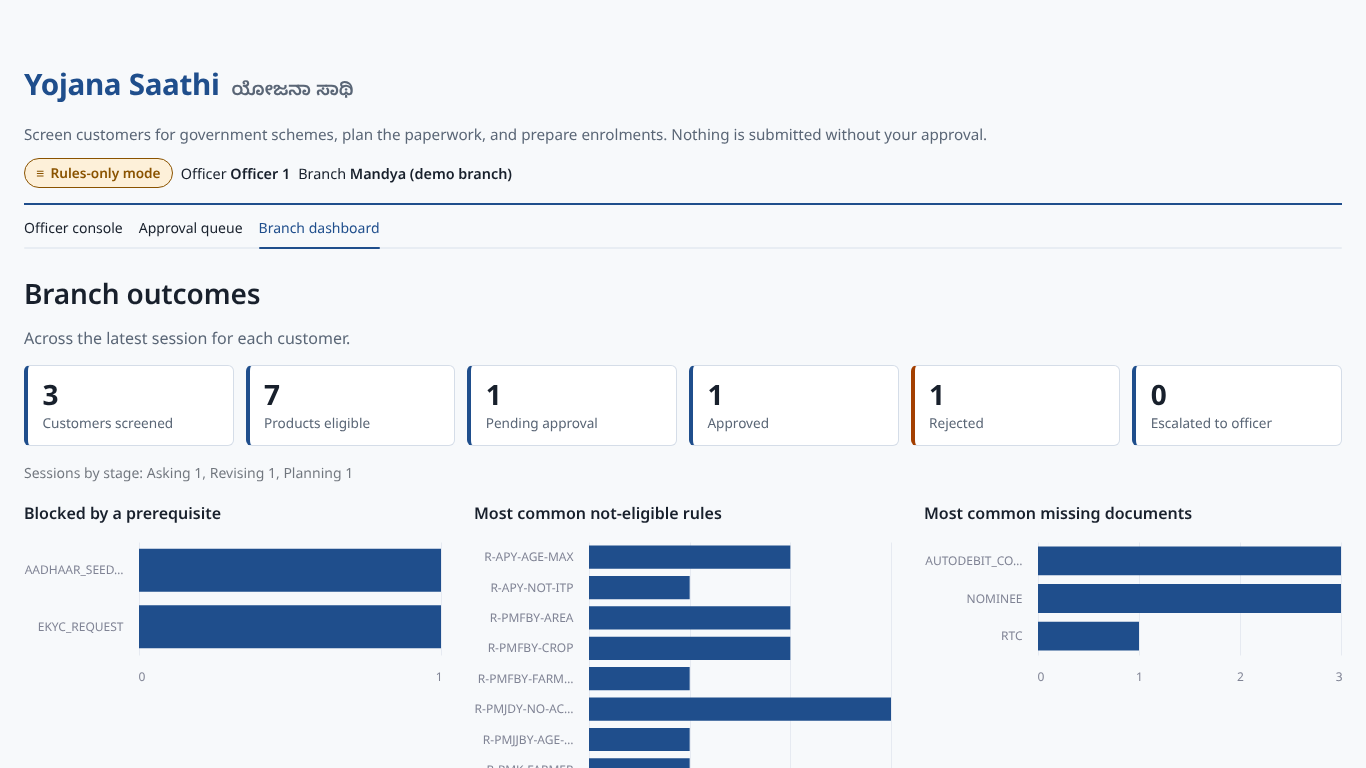
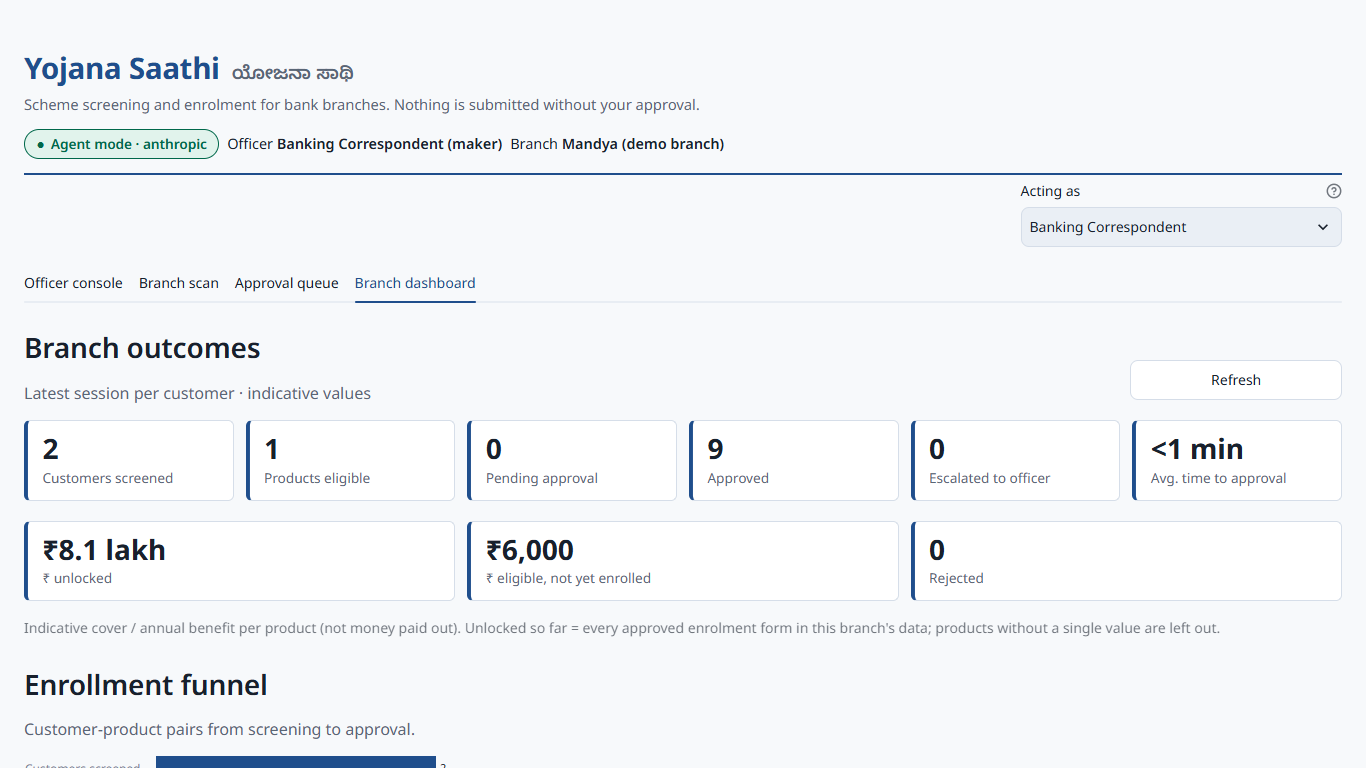
Dashboard charts: band-sized bars, whole-number axes, readable labels; screenshots (#21)

diff --git a/ui/components.py b/ui/components.py
@@ -948,6 +948,13 @@ def stage_chips(counts: Mapping[str, int], names: Mapping[str, str] | None = Non
     _html(state_chips(counts, names))
 
 
+def _count_axis() -> Any:
+    """Counts are whole customers: integer ticks only (no 0.1, 0.2 …)."""
+    import altair as alt
+
+    return alt.Axis(format="d", tickMinStep=1)
+
+
 def status_scale() -> Any:
     """Altair colour scale for eligibility statuses, in legend order (same as status_legend)."""
     import altair as alt
@@ -959,12 +966,12 @@ def funnel_chart(funnel: Sequence[Mapping[str, Any]]) -> Any:
     import altair as alt
 
     data = alt.Data(values=funnel_rows(funnel))
-    y = alt.Y("stage:N", sort=alt.EncodingSortField(field="order"), title=None)
+    y = alt.Y("stage:N", sort=alt.EncodingSortField(field="order"), title=None, axis=alt.Axis(labelLimit=220))
     bars = alt.Chart(data).mark_bar(color=COLORS["primary"]).encode(
         x=alt.X("count:Q", title=None, axis=None), y=y,
         tooltip=[alt.Tooltip("stage:N", title="Stage"), alt.Tooltip("text:N", title="Count")])
     text = alt.Chart(data).mark_text(align="left", dx=4, color=COLORS["ink"]).encode(x="count:Q", y=y, text="text:N")
-    return (bars + text).properties(height=46 * max(1, len(funnel)))
+    return (bars + text).properties(height=alt.Step(34))
 
 
 def product_status_chart(by_product: Mapping[str, Mapping[str, Any]]) -> Any:
@@ -977,14 +984,14 @@ def product_status_chart(by_product: Mapping[str, Mapping[str, Any]]) -> Any:
               if (p.get("statuses") or {}).get(k, 0)]
     pick = alt.selection_point(name="product", fields=["product_id"])
     return alt.Chart(alt.Data(values=values)).mark_bar().encode(
-        y=alt.Y("product_id:N", title=None, sort=list(by_product)),
-        x=alt.X("count:Q", title="Customers", stack="zero"),
+        y=alt.Y("product_id:N", title=None, sort=list(by_product), axis=alt.Axis(labelLimit=160)),
+        x=alt.X("count:Q", title="Customers", stack="zero", axis=_count_axis()),
         color=alt.Color("status:N", scale=status_scale(), legend=alt.Legend(title=None, orient="bottom")),
         order=alt.Order("order:Q"),
         opacity=alt.condition(pick, alt.value(1), alt.value(0.35)),
         tooltip=[alt.Tooltip("name:N", title="Product"), alt.Tooltip("status:N", title="Status"),
                  alt.Tooltip("count:Q", title="Customers")],
-    ).add_params(pick).properties(height=36 * max(1, len(by_product)))
+    ).add_params(pick).properties(height=alt.Step(30))
 
 
 def count_chart(rows: Sequence[Mapping[str, Any]], name: str) -> Any:
@@ -992,10 +999,11 @@ def count_chart(rows: Sequence[Mapping[str, Any]], name: str) -> Any:
     import altair as alt
 
     pick = alt.selection_point(name=name, fields=["id"])
-    data = alt.Data(values=[{**r, "short": str(r["label"])[:48]} for r in rows])
+    data = alt.Data(values=[{**r, "short": str(r["label"])[:60]} for r in rows])
     return alt.Chart(data).mark_bar(color=COLORS["primary"]).encode(
-        y=alt.Y("short:N", title=None, sort="-x"), x=alt.X("count:Q", title="Customers"),
+        y=alt.Y("short:N", title=None, sort="-x", axis=alt.Axis(labelLimit=230)),
+        x=alt.X("count:Q", title="Customers", axis=_count_axis()),
         opacity=alt.condition(pick, alt.value(1), alt.value(0.35)),
         tooltip=[alt.Tooltip("label:N", title="What"), alt.Tooltip("id:N", title="Id"),
                  alt.Tooltip("count:Q", title="Customers")],
-    ).add_params(pick).properties(height=max(120, 34 * len(rows)))
+    ).add_params(pick).properties(height=alt.Step(28))

diff --git a/docs/UI.md b/docs/UI.md
@@ -124,6 +124,10 @@ The Report stage, fourth tab. It's **read-only**: one `GET /dashboard` and one `
 
 On an empty DB the tiles read 0 / "—" and the charts are replaced by "Run a session to see outcomes".
 
+| After the Ramesh and Priya flows (full page) | Clicked PMJJBY: panels and table filter |
+|---|---|
+| ![full](screenshots/dashboard-full-1366.png) | ![filtered](screenshots/dashboard-filtered-1366.png) |
+
 ## Screenshots
 
 | | 1366×768 (projector) | 820px (tablet) |
